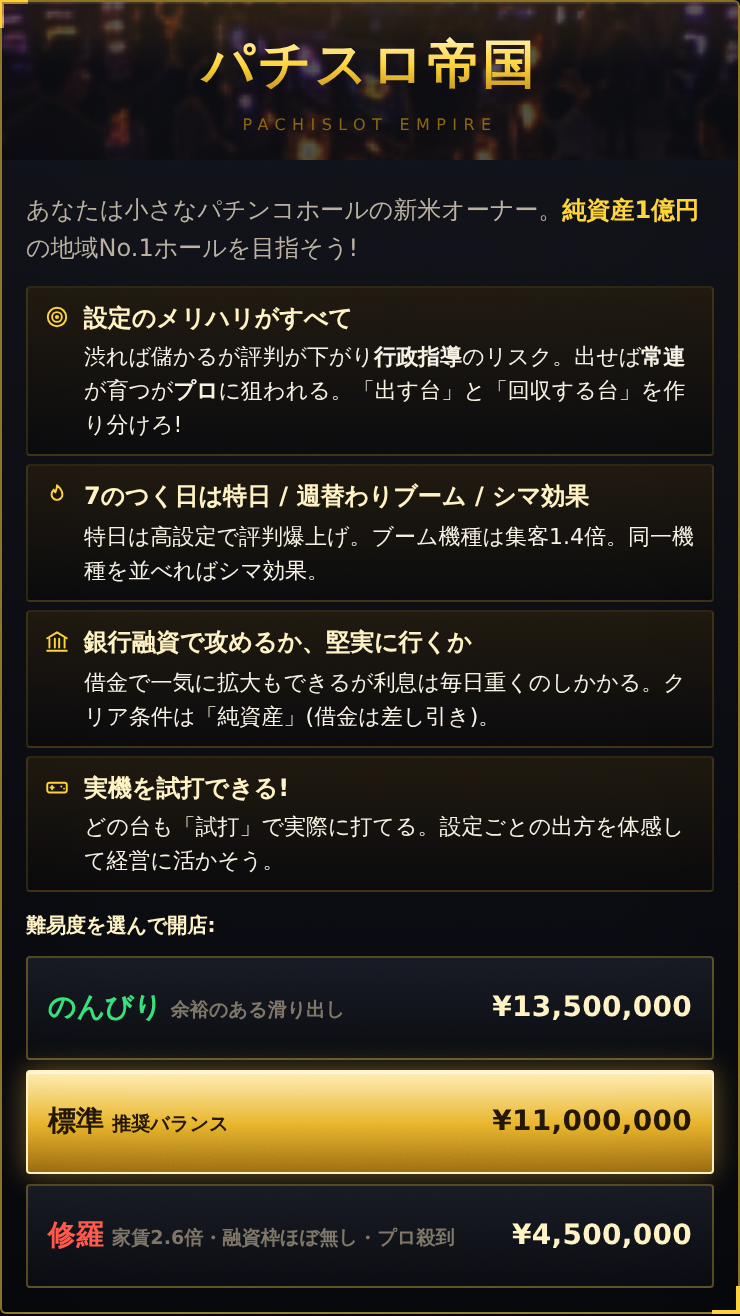
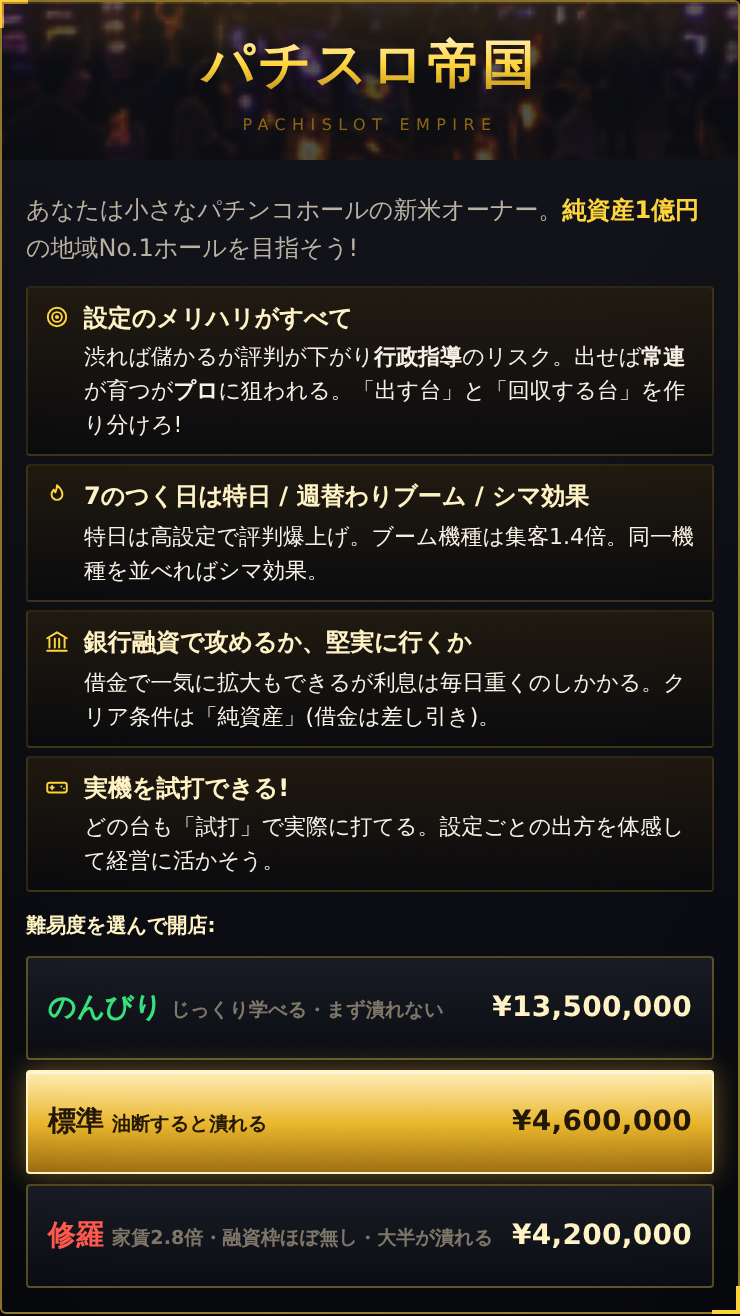
balance(pachinko): 標準と修羅の生存率を指定の帯に合わせる
熟練プレイ(merihari)の生存率を、標準10〜13/15・修羅は半分以下にする指示に対応。
DIFFS の normal と hard のみ変更(easy は不変、simulateDay にも触れていない)。

  normal  money 11,000,000→4,600,000 / rentMul 1.00→2.55 / proMul 1.00→2.00
          heatMul 1.00→1.70 / fillMul 1.00→0.90 / creditMul 1.00→0.40 / expandMul 1.00→1.35
  hard    money 4,500,000→4,200,000 / rentMul 2.60→2.80 / proMul 2.60→2.70
          heatMul 2.20→2.30 / fillMul 0.85→0.84 / creditMul 0.30→0.26 / expandMul 1.55→1.60

## 死因を特定してから調整した
単独のレバーではどれも折れなかった:
  fillMul 0.85→0.68  … 15/15 生存(遅くなるだけ)
  rentMul 単独で3.0  … 20/20 生存
  creditMul 0.8→0.08 … 20/20 生存(そもそも救済融資に到達しない)
倒産は「低い初期資金 × 高い固定費」の組み合わせでしか発生しない。
hard の構成から1項目ずつ戻して確認したところ、rentMul を1.0に戻すと
20/20、money を11Mに戻すと 20/20 になり、この2つが必須条件だった。

## 崖が急なので取れる値が限られる
  normal 4.60M/rent2.55 → 21/30 (70%)
  normal 4.65M/rent2.54 → 28/30 (93%)
  normal 4.70M/rent2.53 → 30/30 (100%)
50,000円動かすだけで70%→93%に飛ぶため、指定帯(10〜13/15)に収まるのは
4.60M/2.55 のみ。45回の計測で 33/45 = 11/15 に着地した。
hard も同様で、4.3M/2.75(11/20)と4.0M/2.9(1/20)の間が崖。
4.2M/2.80 を採用し 8/45 = 2.7/15。

## 結果(45回)
  のんびり  56〜59日  生存 15/15   S:15
  標準     111日     生存 11/15   B:8 C:3 死:4
  修羅     136日     生存 2.7/15  C:6 死:9

  カジュアルプレイの倒産率(20回)
              のんびり  標準           修羅
  気分屋       0/20    15/20(中央29日) 16/20(中央19日)
  常に設定5     0/20    20/20(中央25日) 20/20(中央19日)

## 副作用(要判断)
1. ランクが機能しなくなった。最適化プレイでも標準で92〜111日かかるため、
   S(65日以内)とA(85日以内)が標準・修羅では取得不能。実質B/Cの2段階。
2. 標準が初心者を殺す難易度になった(気分屋75%倒産・中央29日)。
   初心者向けは実質「のんびり」だけになる。
3. 全国制覇は 中央115日→137日 に伸びた(到達性は 15/15 のまま)。
[…]

diff --git a/pachinko/index.html b/pachinko/index.html
@@ -1209,8 +1209,8 @@ const MAX_CAP = 60;            // 店舗拡張の上限台数
 // ---- 難易度 ----
 const DIFFS = {
   easy:   { label:"のんびり", money:13500000, rentMul:0.72, proMul:0.45, heatMul:0.65, fillMul:1.06, creditMul:1.25, expandMul:0.80 },
-  normal: { label:"標準",     money:11000000, rentMul:1.00, proMul:1.00, heatMul:1.00, fillMul:1.00, creditMul:1.00, expandMul:1.00 },
-  hard:   { label:"修羅",     money:4500000,  rentMul:2.60, proMul:2.60, heatMul:2.20, fillMul:0.85, creditMul:0.30, expandMul:1.55 },
+  normal: { label:"標準",     money:4600000,  rentMul:2.55, proMul:2.00, heatMul:1.70, fillMul:0.90, creditMul:0.40, expandMul:1.35 },
+  hard:   { label:"修羅",     money:4200000,  rentMul:2.80, proMul:2.70, heatMul:2.30, fillMul:0.84, creditMul:0.26, expandMul:1.60 },
 };
 
 // ---- 台カタログ(架空機種) ----
@@ -2482,7 +2482,10 @@ function renderMgmt() {
   $("debtNow").textContent = yen(state.debt);
   $("debtNow").className = "v num" + (state.debt ? " neg" : "");
   $("creditNow").textContent = yen(creditLimit());
-  $("btnBorrow").disabled = dead || state.debt + 1000000 > creditLimit();
+  const canBorrow = Math.min(1000000, creditLimit() - state.debt);
+  $("btnBorrow").disabled = dead || canBorrow <= 0;
+  $("btnBorrow").textContent = canBorrow >= 1000000 || canBorrow <= 0
+    ? "借りる 100万" : `借りる ${yenShort(canBorrow)}`;
   $("btnRepay").disabled = dead || state.debt <= 0 || state.money < Math.min(1000000, state.debt);
 
   $("rateButtons").innerHTML =
@@ -4372,13 +4375,13 @@ function showTutorial() {
       <p class="note" style="margin-top:10px;color:var(--gold-hi);font-weight:800">難易度を選んで開店:</p>
       <div style="display:grid;gap:5px;margin-top:6px">
         <button class="btn wide" style="min-height:52px;justify-content:space-between" onclick="startGame('easy')">
-          <span><b style="font-size:14px;color:var(--pos)">のんびり</b> <small style="color:var(--tx-3)">余裕のある滑り出し</small></span>
+          <span><b style="font-size:14px;color:var(--pos)">のんびり</b> <small style="color:var(--tx-3)">じっくり学べる・まず潰れない</small></span>
           <span class="num" style="font-size:14px;font-weight:900;color:var(--gold-hi)">${yen(DIFFS.easy.money)}</span></button>
         <button class="btn wide gold" style="min-height:52px;justify-content:space-between" onclick="startGame('normal')">
-          <span><b style="font-size:14px">標準</b> <small>推奨バランス</small></span>
+          <span><b style="font-size:14px">標準</b> <small>油断すると潰れる</small></span>
           <span class="num" style="font-size:14px;font-weight:900">${yen(DIFFS.normal.money)}</span></button>
         <button class="btn wide" style="min-height:52px;justify-content:space-between" onclick="startGame('hard')">
-          <span><b style="font-size:14px;color:var(--neg)">修羅</b> <small style="color:var(--tx-3)">家賃2.6倍・融資枠ほぼ無し・プロ殺到</small></span>
+          <span><b style="font-size:14px;color:var(--neg)">修羅</b> <small style="color:var(--tx-3)">家賃2.8倍・融資枠ほぼ無し・大半が潰れる</small></span>
           <span class="num" style="font-size:14px;font-weight:900;color:var(--gold-hi)">${yen(DIFFS.hard.money)}</span></button>
       </div>
     </div>`);
@@ -4516,10 +4519,12 @@ $("btnGrand").addEventListener("click", () => {
 });
 $("btnBorrow").addEventListener("click", () => {
   if (isDead()) return;
-  if (state.debt + 1000000 > creditLimit()) return;
-  state.debt += 1000000;
+  // 枠が100万に満たなくても、残り枠のぶんだけは借りられる
+  const amount = Math.min(1000000, creditLimit() - state.debt);
+  if (amount <= 0) return;
+  state.debt += amount;
   state.maxDebt = Math.max(state.maxDebt, state.debt);
-  state.money += 1000000;
+  state.money += amount;
   save(); renderAll();
 });
 $("btnRepay").addEventListener("click", () => {

diff --git a/pachinko/guard/runtime-guard.js b/pachinko/guard/runtime-guard.js
@@ -197,8 +197,10 @@ const ok = (n, c, d='') => { if (c) { pass++; console.log('  PASS  ' + n); } els
     await clickC('[data-rate="low"]'); await p.waitForTimeout(120);
     ok('FN 交換率変更', await p.evaluate(() => state.rate === 'low'));
     const d0 = await p.evaluate(() => state.debt);
+    const want = await p.evaluate(() => Math.min(1000000, creditLimit() - state.debt));
     await clickC('#btnBorrow'); await p.waitForTimeout(120);
-    ok('FN 借入', await p.evaluate(n => state.debt === n + 1000000, d0));
+    // 枠が100万未満のときは残り枠のぶんだけ借りられる
+    ok('FN 借入(枠の残りぶん)', await p.evaluate(([n, w]) => state.debt === n + w && w > 0, [d0, want]));
     await clickC('#btnRepay'); await p.waitForTimeout(120);
     ok('FN 返済', await p.evaluate(n => state.debt === n, d0));
     await p.evaluate(() => { state.money = 99000000; renderMgmt(); });
